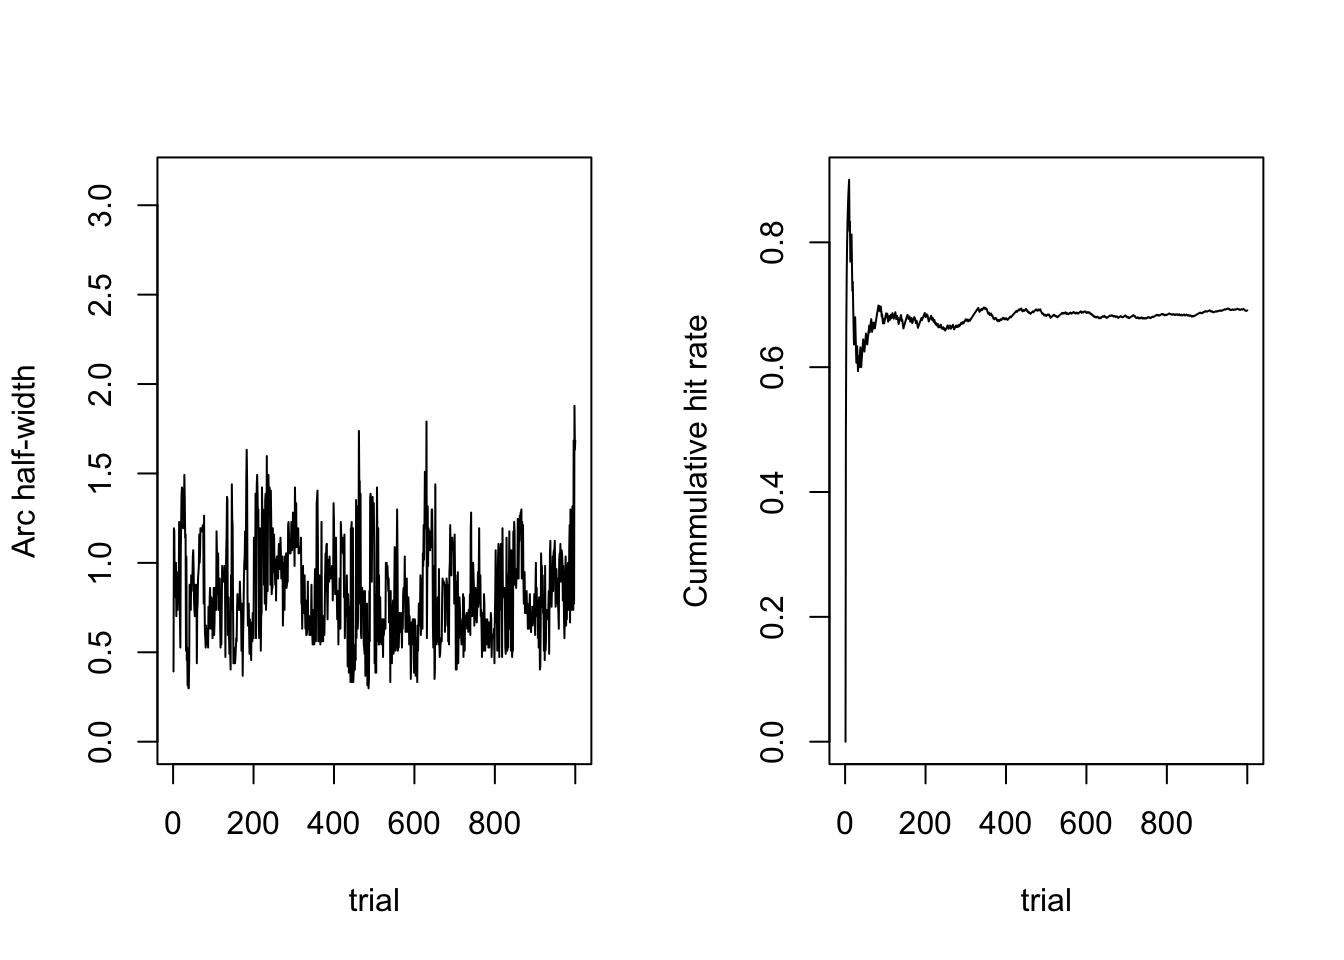
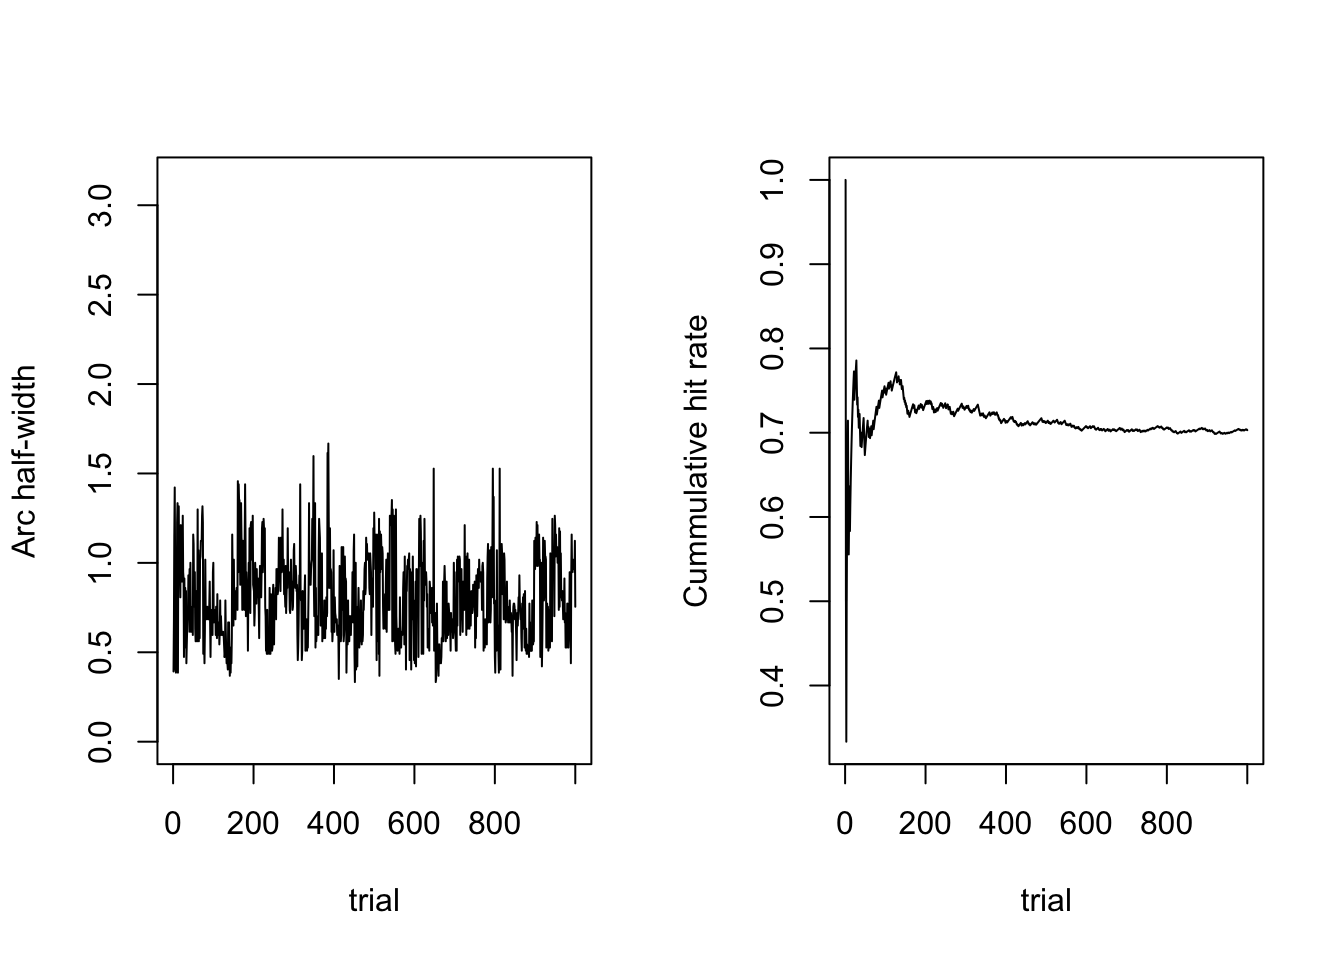
Built site for gh-pages

diff --git a/notebooks/counterfactual-rl.html b/notebooks/counterfactual-rl.html
@@ -373,7 +373,12 @@ window.Quarto = {
   <li><a href="#learned-q-value-landscape" id="toc-learned-q-value-landscape" class="nav-link" data-scroll-target="#learned-q-value-landscape">Learned Q-Value Landscape</a></li>
   <li><a href="#comparison-with-algorithm-4-and-algorithm-5" id="toc-comparison-with-algorithm-4-and-algorithm-5" class="nav-link" data-scroll-target="#comparison-with-algorithm-4-and-algorithm-5">Comparison with Algorithm 4 and Algorithm 5</a></li>
   <li><a href="#arc-width-distribution" id="toc-arc-width-distribution" class="nav-link" data-scroll-target="#arc-width-distribution">Arc Width Distribution</a></li>
-  <li><a href="#summary" id="toc-summary" class="nav-link" data-scroll-target="#summary">Summary</a></li>
+  <li>
+<a href="#summary" id="toc-summary" class="nav-link" data-scroll-target="#summary">Summary</a>
+  <ul class="collapse">
+<li><a href="#postscript-how-the-q-profile-changes-over-trials" id="toc-postscript-how-the-q-profile-changes-over-trials" class="nav-link" data-scroll-target="#postscript-how-the-q-profile-changes-over-trials">Postscript: how the Q profile changes over trials</a></li>
+  </ul>
+</li>
   </ul><div class="toc-actions"><ul><li><a href="https://github.com/venpopov/arc-width-vwm/edit/main/notebooks/counterfactual-rl.qmd" class="toc-action"><i class="bi bi-github"></i>Edit this page</a></li><li><a href="https://github.com/venpopov/arc-width-vwm/blob/main/notebooks/counterfactual-rl.qmd" class="toc-action"><i class="bi empty"></i>View source</a></li><li><a href="https://github.com/venpopov/arc-width-vwm/issues/new" class="toc-action"><i class="bi empty"></i>Report an issue</a></li></ul></div></nav>
     </div>
 <!-- main -->
@@ -686,9 +691,33 @@ P(\alpha_t = z_k \mid Q_t) = \frac{\exp(Q_t(k) / \tau)}{\sum_{j=1}^N \exp(Q_t(j)
 <li>Joint with memory: <span class="math inline">\(c\)</span>, <span class="math inline">\(\kappa\)</span>, <span class="math inline">\(\eta\)</span>, <span class="math inline">\(\tau\)</span>
 </li>
 </ul>
+<section id="postscript-how-the-q-profile-changes-over-trials" class="level2"><h2 class="anchored" data-anchor-id="postscript-how-the-q-profile-changes-over-trials">Postscript: how the Q profile changes over trials</h2>
+<div class="cell">
+<div class="code-copy-outer-scaffold"><div class="sourceCode" id="cb12"><pre class="downlit sourceCode r code-with-copy"><code class="sourceCode R"><span><span class="va">crl</span> <span class="op">&lt;-</span> <span class="fu">algo_crl</span><span class="op">(</span>eta <span class="op">=</span> <span class="fl">0.1</span>, tau <span class="op">=</span> <span class="fl">0.05</span><span class="op">)</span></span>
+<span></span>
+<span><span class="va">ys</span> <span class="op">&lt;-</span> <span class="fu"><a href="https://rdrr.io/r/base/c.html">c</a></span><span class="op">(</span><span class="va">pi</span><span class="op">/</span><span class="fl">2</span>, <span class="fl">2</span>, <span class="fl">0.5</span>, <span class="fl">0.1</span>, <span class="fl">3</span>, <span class="fl">1</span>, <span class="fl">0.2</span><span class="op">)</span></span>
+<span></span>
+<span><span class="fu"><a href="https://rdrr.io/r/graphics/par.html">par</a></span><span class="op">(</span>mfrow <span class="op">=</span> <span class="fu"><a href="https://rdrr.io/r/base/c.html">c</a></span><span class="op">(</span><span class="fl">2</span>,<span class="fl">4</span><span class="op">)</span><span class="op">)</span></span>
+<span><span class="va">Q</span> <span class="op">&lt;-</span> <span class="fu"><a href="https://rdrr.io/r/base/environment.html">environment</a></span><span class="op">(</span><span class="va">crl</span><span class="op">)</span><span class="op">$</span><span class="va">state</span><span class="op">$</span><span class="va">Q</span></span>
+<span><span class="fu"><a href="https://rdrr.io/r/graphics/plot.default.html">plot</a></span><span class="op">(</span><span class="fu"><a href="https://rdrr.io/r/base/seq.html">seq</a></span><span class="op">(</span><span class="fl">0</span>, <span class="va">pi</span>, length.out <span class="op">=</span> <span class="fu"><a href="https://rdrr.io/r/base/length.html">length</a></span><span class="op">(</span><span class="va">Q</span><span class="op">)</span><span class="op">)</span>, <span class="va">Q</span>, type <span class="op">=</span> <span class="st">"l"</span>, xlab <span class="op">=</span> <span class="st">"Arc width"</span>, ylim <span class="op">=</span> <span class="fu"><a href="https://rdrr.io/r/base/c.html">c</a></span><span class="op">(</span><span class="fl">0</span>,<span class="fl">1</span><span class="op">)</span><span class="op">)</span></span>
+<span></span>
+<span><span class="kw">for</span> <span class="op">(</span><span class="va">i</span> <span class="kw">in</span> <span class="fu"><a href="https://rdrr.io/r/base/seq.html">seq_along</a></span><span class="op">(</span><span class="va">ys</span><span class="op">)</span><span class="op">)</span> <span class="op">{</span></span>
+<span>  <span class="va">choice</span> <span class="op">&lt;-</span> <span class="fu">crl</span><span class="op">(</span>a <span class="op">=</span> <span class="fl">2</span>, y <span class="op">=</span> <span class="va">ys</span><span class="op">[</span><span class="va">i</span><span class="op">]</span><span class="op">)</span></span>
+<span>  <span class="va">Q</span> <span class="op">&lt;-</span> <span class="fu"><a href="https://rdrr.io/r/base/environment.html">environment</a></span><span class="op">(</span><span class="va">crl</span><span class="op">)</span><span class="op">$</span><span class="va">state</span><span class="op">$</span><span class="va">Q</span></span>
+<span>  <span class="fu"><a href="https://rdrr.io/r/graphics/plot.default.html">plot</a></span><span class="op">(</span><span class="fu"><a href="https://rdrr.io/r/base/seq.html">seq</a></span><span class="op">(</span><span class="fl">0</span>, <span class="va">pi</span>, length.out <span class="op">=</span> <span class="fu"><a href="https://rdrr.io/r/base/length.html">length</a></span><span class="op">(</span><span class="va">Q</span><span class="op">)</span><span class="op">)</span>, <span class="va">Q</span>, </span>
+<span>  type <span class="op">=</span> <span class="st">"l"</span>, xlab <span class="op">=</span> <span class="st">"Arc width"</span>, ylim <span class="op">=</span> <span class="fu"><a href="https://rdrr.io/r/base/c.html">c</a></span><span class="op">(</span><span class="fl">0</span>,<span class="fl">1</span><span class="op">)</span>, </span>
+<span>  main <span class="op">=</span> <span class="fu">glue</span><span class="fu">::</span><span class="fu"><a href="https://glue.tidyverse.org/reference/glue.html">glue</a></span><span class="op">(</span><span class="st">"Step {i}, y = {round(ys[i],2)}"</span><span class="op">)</span><span class="op">)</span></span>
+<span><span class="op">}</span></span></code></pre></div><button title="Copy to Clipboard" class="code-copy-button"><i class="bi"></i></button></div>
+<div class="cell-output-display">
+<div>
+<figure class="figure"><p><img src="counterfactual-rl_files/figure-html/unnamed-chunk-1-1.png" class="img-fluid figure-img" width="672"></p>
+</figure>
+</div>
+</div>
+</div>
 
 
-</section></main><!-- /main --><script id="quarto-html-after-body" type="application/javascript">
+</section></section></main><!-- /main --><script id="quarto-html-after-body" type="application/javascript">
   window.document.addEventListener("DOMContentLoaded", function (event) {
     const icon = "";
     const anchorJS = new window.AnchorJS();
